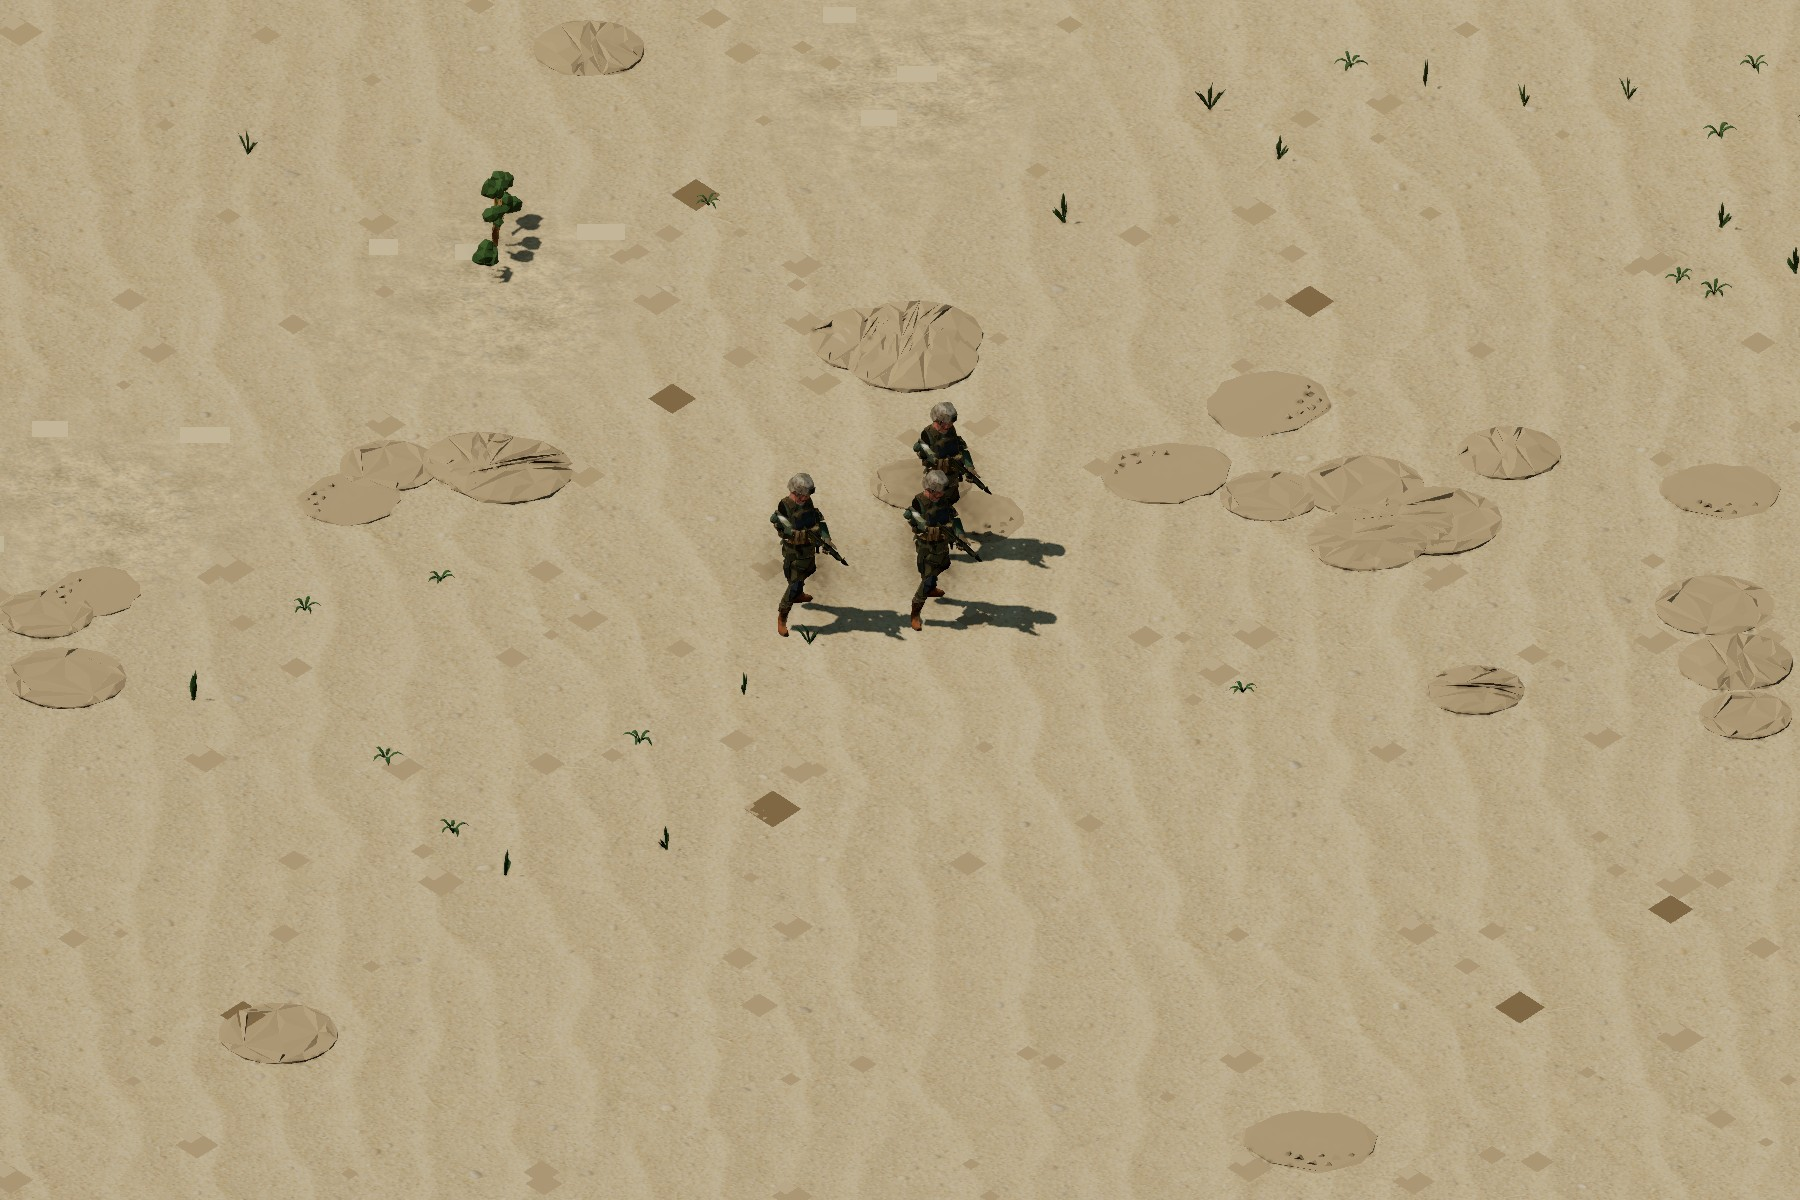
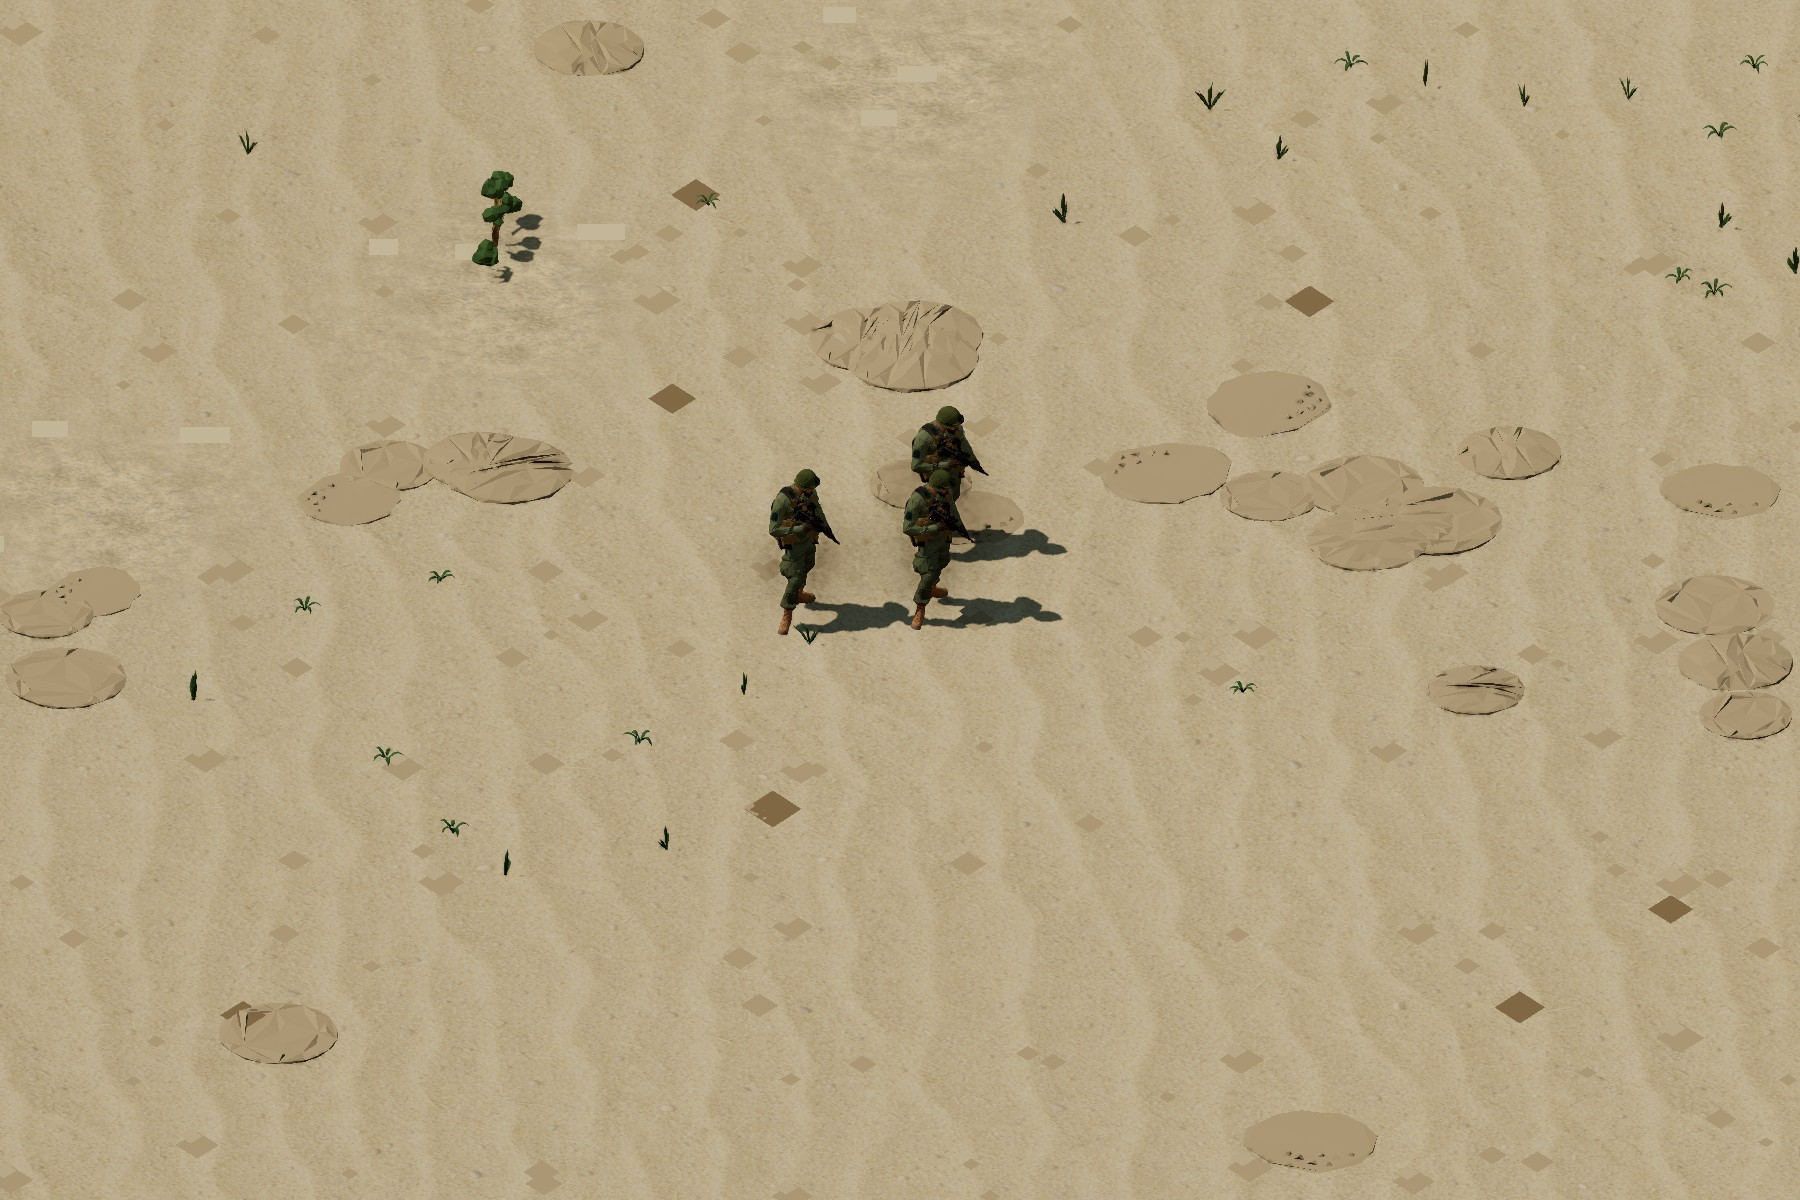
art(units): CI gates -- the Meshy Rifle Squad's plate and portraits regenerated, two render tests re-pinned (GH-746, GH-1079)
Re-pinned (render tests, from the Meshy squad's bytes; each keeps its own failing input, and main did not touch either file since #924)
- garage-view.infantry-kit.test.ts: BASE boot 546 / face 81 / uniform 9,963 / weapon 1,140 -> 3,792 / 519 / 24,818 / 3,826 (the Meshy body);
  full kit uniform 11,913 -> 39,447, weapon 2,548 -> 10,322; armour 1 uniform 10,749 -> 31,901; sensors 1 weapon 1,512 -> 5,854
  (infantry-kit-shipped.test.ts's own per-tier counts).
- ThreeRenderer.seat-kit-infantry.test.ts: armour 1 uniform 10,749 -> 31,901 and weapon 1,140 -> 3,826; the full kit 11,913 / 2,548 ->
  39,447 / 10,322; armour 2 uniform 11,037 -> 33,125.

art-freshness.test.ts (GH-1079): the stale pictures were the unit plate, the team portrait and the lead portrait. Regenerated:
`pnpm plates:units -- --only=inf_squad --metal --port=5234` (one Metal browser, music off, own port) and
`blender -b -P tools/render_unit_portraits.py -- --only=inf_squad`. The kit plates and close-ups cover vehicles only, so inf_squad has none.
If the GLB moves again these three must be regenerated again.

perf:memory (menu after a mission 67-69 MiB against 65): NOT fixed, not a leak, budget not touched. Measured here on the same tree
(`perf:memory --missions=qarn_hadid_3_clearance --gpu=swiftshader`, darwin SwiftShader): with the Meshy squad menu 60.6 MiB (js 16.3 +
ab 44.3), after leaving 67.7 (js 23.2 + ab 44.5); with the previous rigid squad's GLB swapped in on the same tree, menu 52.8 (ab 36.4),
[…]

Changed region(s): [[0.4044, 0.3392, 0.5911, 0.5242]]

diff --git a/packages/render/src/three/garage/garage-view.infantry-kit.test.ts b/packages/render/src/three/garage/garage-view.infantry-kit.test.ts
@@ -82,7 +82,8 @@ const SQUAD = readFileSync(new URL('../../../../../art/meshes/inf_squad.glb', im
 const GRENADIER = readFileSync(new URL('../../../../../art/meshes/inf_grenadier.glb', import.meta.url));
 
 /** The shipped figure before the kit: boot, face, uniform, weapon. */
-const BASE = { boot: 546, face: 81, uniform: 9963, weapon: 1140 };
+// Re-pinned 9 Nov 2026 (GH-746): the Meshy Rifle Squad's own bytes (art/meshes/inf_squad.glb); the rigid figure's 546 / 81 / 9,963 / 1,140 are gone.
+const BASE = { boot: 3792, face: 519, uniform: 24818, weapon: 3826 };
 const FULL = { armour: 3, sensors: 3, firepower: 3 };
 
 const COLORS = { key: '#ffffff', fill: '#ffffff', sky: '#ffffff', bounce: '#ffffff', ground: '#c8b494' };
@@ -152,7 +153,7 @@ describe('mountGarageView: the bought kit on a team on the turntable (GH-826)', 
     bare.view.dispose();
 
     const full = await mount(SQUAD, 'inf_squad', FULL);
-    expect(full.drawn()).toEqual({ ...BASE, uniform: 11913, weapon: 2548 });
+    expect(full.drawn()).toEqual({ ...BASE, uniform: 39447, weapon: 10322 });
     full.view.dispose();
 
     // Mounted with a track at tier 0 is the plain figure too.
@@ -167,12 +168,12 @@ describe('mountGarageView: the bought kit on a team on the turntable (GH-826)', 
     const frames = m.view.stats().frames;
 
     m.view.setKit(FULL);
-    expect(m.drawn()).toEqual({ ...BASE, uniform: 11913, weapon: 2548 });
+    expect(m.drawn()).toEqual({ ...BASE, uniform: 39447, weapon: 10322 });
     expect(m.view.stats().frames).toBe(frames + 1);
     m.view.setKit({ armour: 1 });
-    expect(m.drawn()).toEqual({ ...BASE, uniform: 10749 });
+    expect(m.drawn()).toEqual({ ...BASE, uniform: 31901 });
     m.view.setKit({ sensors: 1 });
-    expect(m.drawn()).toEqual({ ...BASE, weapon: 1512 });
+    expect(m.drawn()).toEqual({ ...BASE, weapon: 5854 });
     m.view.setKit({});
     expect(m.drawn()).toEqual(BASE);
     expect(m.view.stats().frames).toBe(frames + 4);

diff --git a/packages/render/src/three/ThreeRenderer.seat-kit-infantry.test.ts b/packages/render/src/three/ThreeRenderer.seat-kit-infantry.test.ts
@@ -142,11 +142,12 @@ describe('loadMeshUnit files a template set per seat only where the infantry kit
     const [t0, t1] = stub.made;
     expect(priv.meshUnitTemplates.get('inf_squad')).toEqual([t0]);
     expect(priv.meshUnitTemplates.get('inf_squad#s1')).toEqual([t1]);
-    // Literals: armour 1 alone, and the full kit (infantry-kit-shipped.test.ts).
-    expect(tris(t0, 'uniform')).toBe(10749);
-    expect(tris(t0, 'weapon')).toBe(1140);
-    expect(tris(t1, 'uniform')).toBe(11913);
-    expect(tris(t1, 'weapon')).toBe(2548);
+    // Literals: armour 1 alone, and the full kit (infantry-kit-shipped.test.ts). Re-pinned 9 Nov 2026 (GH-746) from the Meshy Rifle Squad's bytes
+    // (the rigid figure's 10,749 / 1,140 / 11,913 / 2,548 are gone).
+    expect(tris(t0, 'uniform')).toBe(31901);
+    expect(tris(t0, 'weapon')).toBe(3826);
+    expect(tris(t1, 'uniform')).toBe(39447);
+    expect(tris(t1, 'weapon')).toBe(10322);
     renderer.dispose();
   });
 
@@ -164,7 +165,7 @@ describe('loadMeshUnit files a template set per seat only where the infantry kit
     await renderer.loadMeshUnit('inf_squad', 'inf_squad.glb', 'kdf');
     expect(stub.calls).toEqual([{ armour: 2 }]);
     expect([...priv.meshUnitTemplates.keys()]).toEqual(['inf_squad']);
-    expect(tris(priv.meshUnitTemplates.get('inf_squad')![0], 'uniform')).toBe(11037);
+    expect(tris(priv.meshUnitTemplates.get('inf_squad')![0], 'uniform')).toBe(33125);
     renderer.dispose();
   });
 
